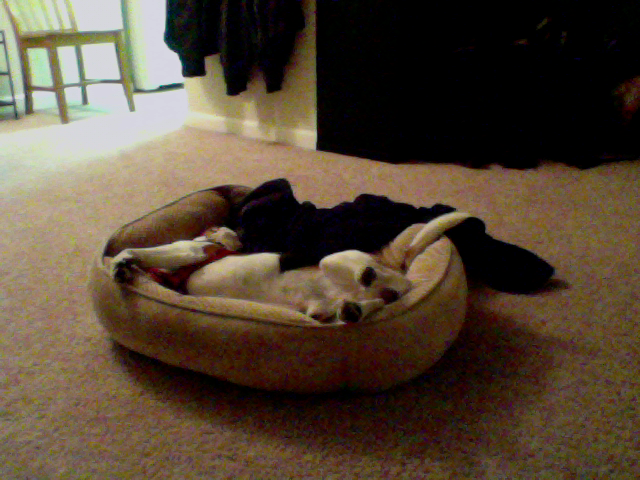
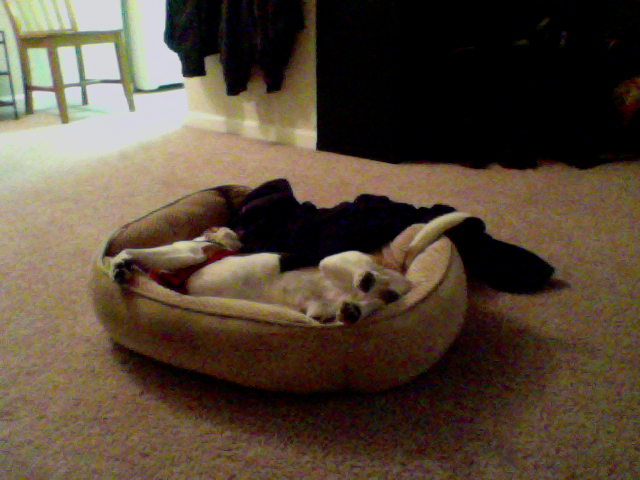
update at Month05Day07Time21:22

diff --git a/index.html b/index.html
@@ -39,8 +39,8 @@
       <!-- Example row of columns -->
       <div class="row">
         <div class="col-md-4">
-	<p>This picture was updated at Month05Day07Time21:21</p>
-		<img src="3_pic.png" />
+	<p>This picture was updated at Month05Day07Time21:22</p>
+		<img src="7_pic.png" />
         </div>
       </div>
 
